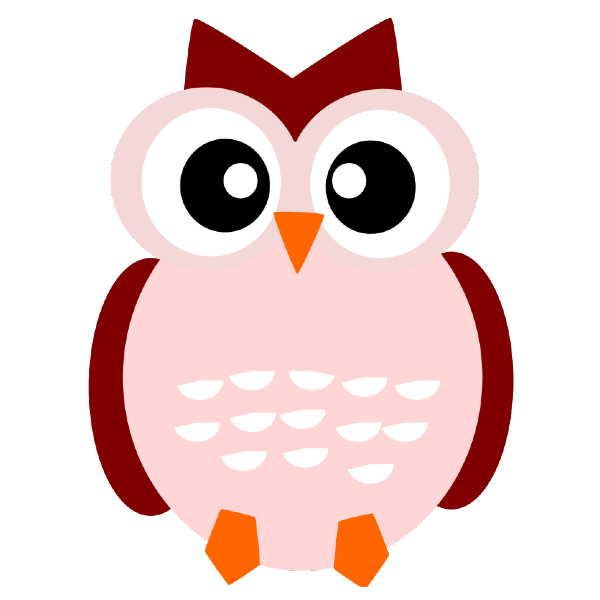
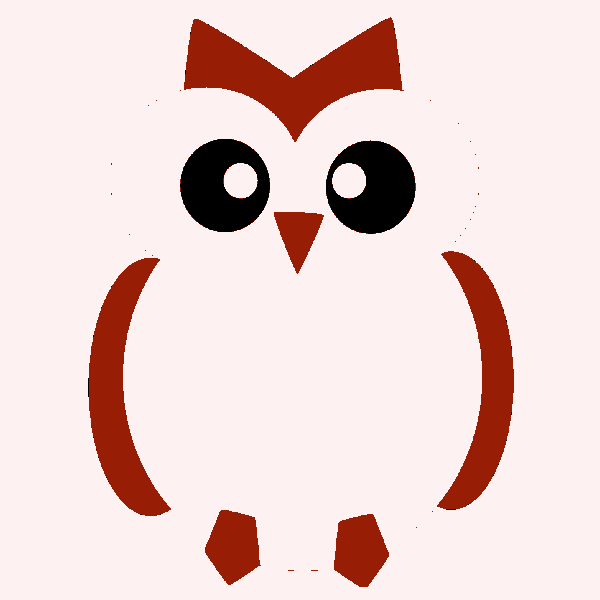
k_means_color
k_means

diff --git a/Optimal_SLIC/SLIC (copy).py b/Optimal_SLIC/SLIC (copy).py
@@ -1,0 +1,40 @@
+import cv2
+import numpy as np
+from sklearn.cluster import KMeans
+
+# 读入图像
+img = cv2.imread('owl.png')
+
+# 获取切割的范围
+# mask = cv2.imread('mask.jpg', 0)
+# mask = (mask > 128).astype(np.uint8)
+
+# 将图像转换为 LAB 空间
+lab = cv2.cvtColor(img, cv2.COLOR_BGR2LAB)
+
+# 获取切割范围内的颜色
+# colors = img[mask > 0].reshape(-1, 3)
+colors = lab.reshape(-1, 3)
+
+# 使用 k-means 聚合颜色
+kmeans = KMeans(n_clusters=3, random_state=0).fit(colors)
+kmeansImg = (kmeans.labels_).reshape(img.shape[0], img.shape[1])
+
+# 将图像颜色设置为聚类中心颜色
+new_img = np.zeros_like(img)
+for i, color in enumerate(kmeans.cluster_centers_):
+    print(color.astype(int))
+    print(i)
+    print(type(kmeansImg))
+    print(len(kmeansImg)) # [0 0 0 ... 0 0 0]
+    # new_img[mask > 0][kmeansImg == i] = color
+    new_img[kmeansImg == i] = color.astype(int)
+
+
+# 将图像转换回 BGR 空间
+new_img = cv2.cvtColor(new_img, cv2.COLOR_LAB2BGR)
+
+# 保存处理后的图像
+cv2.imwrite('owl.png', new_img)
+cv2.imshow("new_img", new_img)
+cv2.waitKey(0)

diff --git a/Optimal_SLIC/K_means.py b/Optimal_SLIC/K_means.py
@@ -1,0 +1,38 @@
+import cv2
+import numpy as np
+from sklearn.cluster import KMeans
+
+# 读入图像
+img = cv2.imread('fish.jpg')
+
+# 获取切割的范围
+# mask = cv2.imread('mask.jpg', 0)
+# mask = (mask > 128).astype(np.uint8)
+
+# 将图像转换为 LAB 空间
+lab = cv2.cvtColor(img, cv2.COLOR_BGR2LAB)
+
+# 获取切割范围内的颜色
+# colors = img[mask > 0].reshape(-1, 3)
+colors = lab.reshape(-1, 3)
+
+# 使用 k-means 聚合颜色
+kmeans = KMeans(n_clusters=5, random_state=0).fit(colors)
+kmeansImg = (kmeans.labels_).reshape(img.shape[0], img.shape[1])
+
+# 将图像颜色设置为聚类中心颜色
+new_img = np.zeros_like(img)
+for i, color in enumerate(kmeans.cluster_centers_):
+    print(i)
+    print(len(kmeansImg)) # [0 0 0 ... 0 0 0]
+    # new_img[mask > 0][kmeansImg == i] = color
+    new_img[kmeansImg == i] = color.astype(int)
+
+
+# 将图像转换回 BGR 空间
+new_img = cv2.cvtColor(new_img, cv2.COLOR_LAB2BGR)
+
+# 保存处理后的图像
+cv2.imwrite('new_fish.jpg', new_img)
+cv2.imshow("new_img", new_img)
+cv2.waitKey(0)
